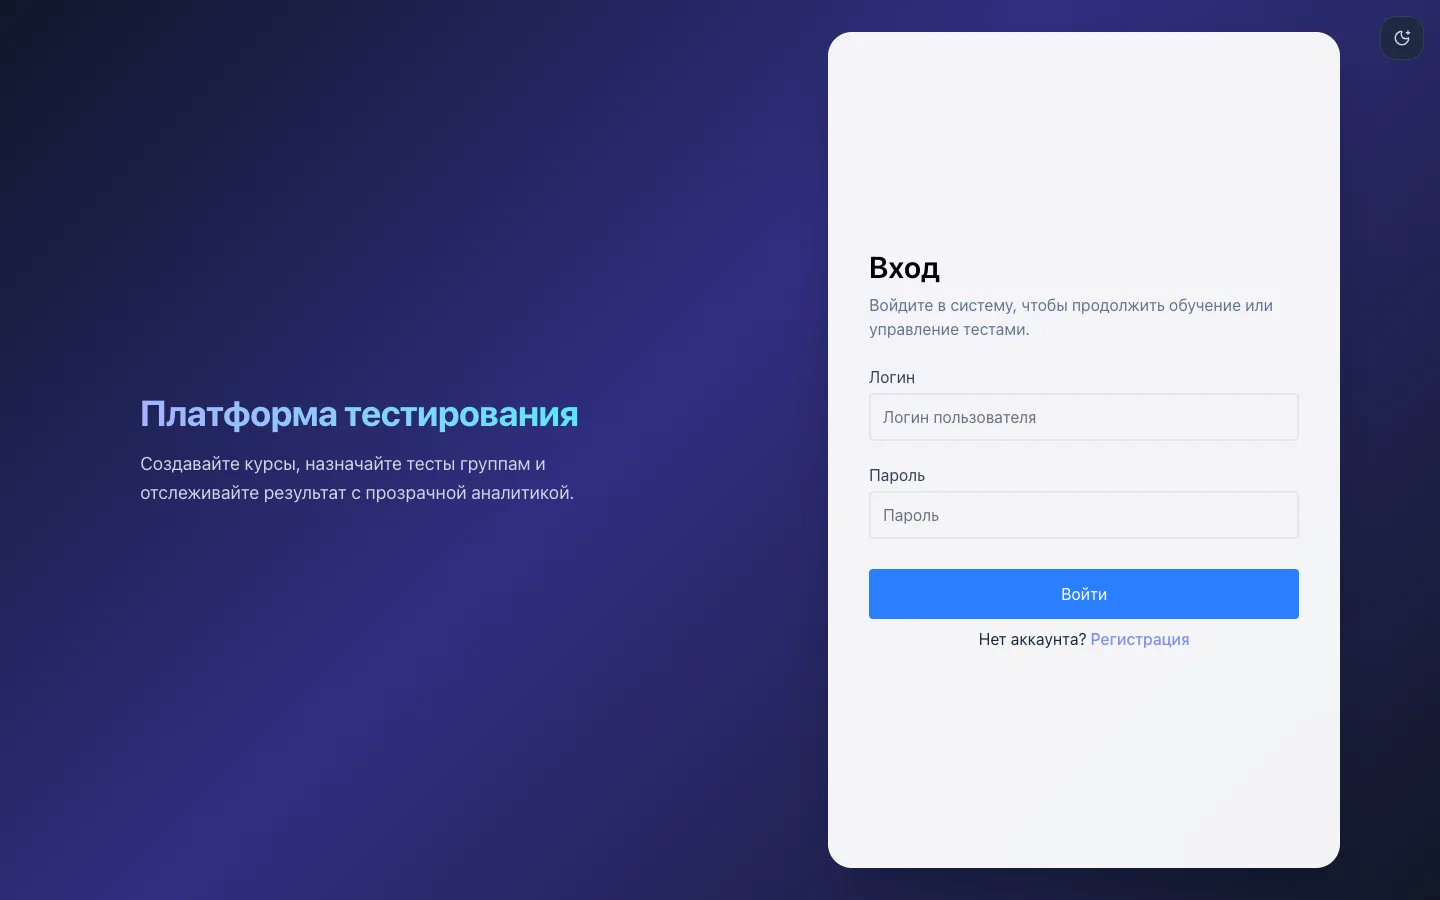
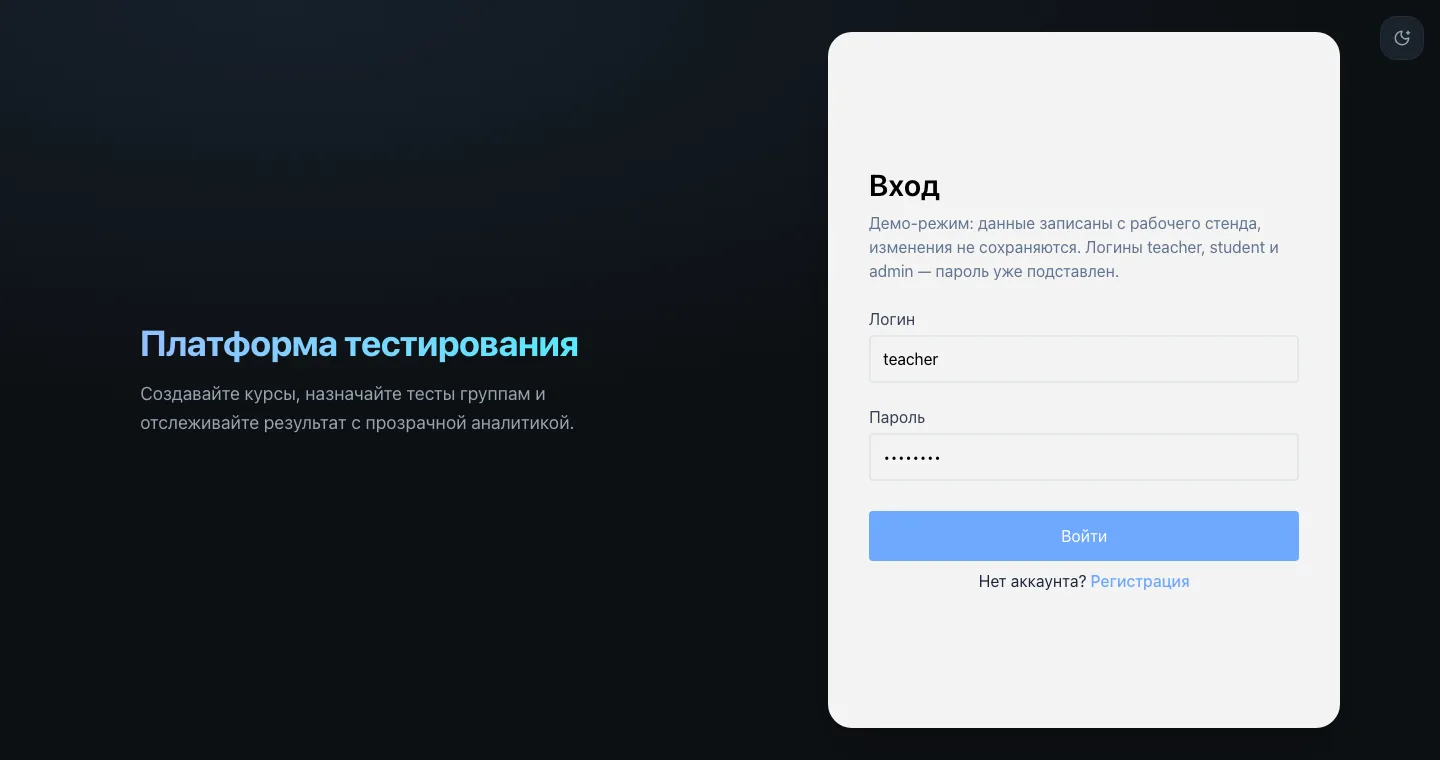
Show the quiz analytics screen and link its live demo

diff --git a/src/data.ts b/src/data.ts
@@ -96,15 +96,16 @@ export const projects: Project[] = [
     n: '06',
     name: 'Quiz',
     nameEn: 'Quiz',
-    kind: 'Платформа тестирования',
-    kindEn: 'Testing platform',
+    kind: 'Платформа тестирования · живое демо',
+    kindEn: 'Testing platform · live demo',
     summary:
-      'LMS с ролями преподавателя, студента и руководства: группы, назначение тестов, статистика и загрузка материалов. Поднимается одной командой в Docker.',
+      'LMS с ролями преподавателя, студента и руководства: группы, назначение тестов, прохождение и результаты. Главное — аналитика: один SQL-запрос по ответам и меткам времени показывает долю верных и среднее время по каждому вопросу, самый популярный неверный вариант, распределение баллов и срез по группам. Так видно не «сколько баллов», а какой вопрос сформулирован плохо и где у группы общее заблуждение. Поднимается одной командой в Docker.',
     summaryEn:
-      'An LMS with teacher, student and management roles: groups, assigned tests, statistics and uploads. Comes up with a single Docker command.',
-    stack: ['React', 'Express', 'PostgreSQL', 'Docker'],
+      'An LMS with teacher, student and management roles: groups, assignments, test taking and results. The centrepiece is analytics: a single SQL query over answers and timestamps yields share correct and average time per question, the distractor that pulls the most students, score distribution and a per-group cut — so a teacher sees which question is badly worded, not just who scored what. Comes up with a single Docker command.',
+    stack: ['React 19', 'Express', 'PostgreSQL', 'Docker'],
     repo: 'https://github.com/Olegg000/quiz',
-    shots: [`${base}shots/quiz-catalog.webp`, `${base}shots/quiz-login.webp`],
+    demo: 'https://olegg000.github.io/quiz/',
+    shots: [`${base}shots/quiz-analytics.webp`, `${base}shots/quiz-catalog.webp`, `${base}shots/quiz-login.webp`],
   },
   {
     n: '07',
